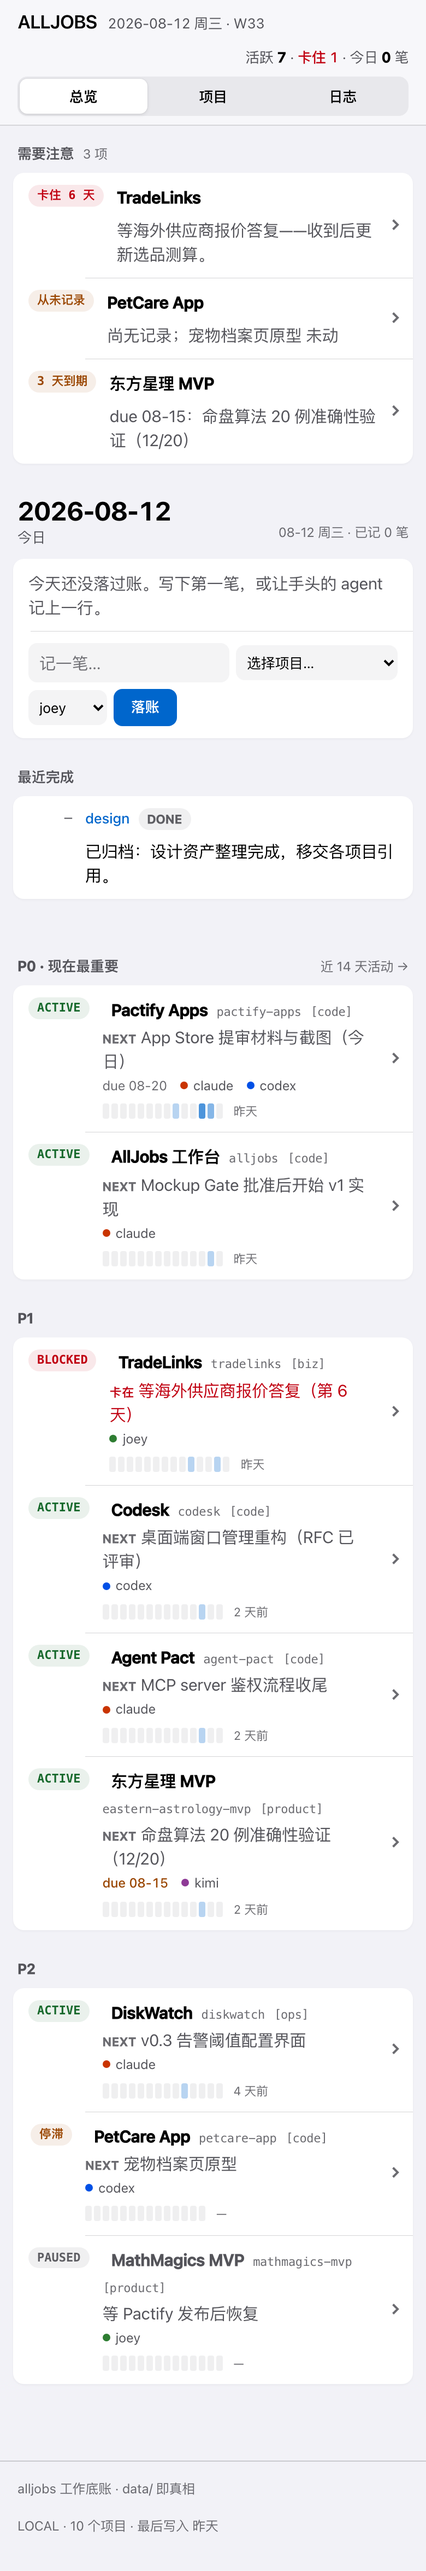
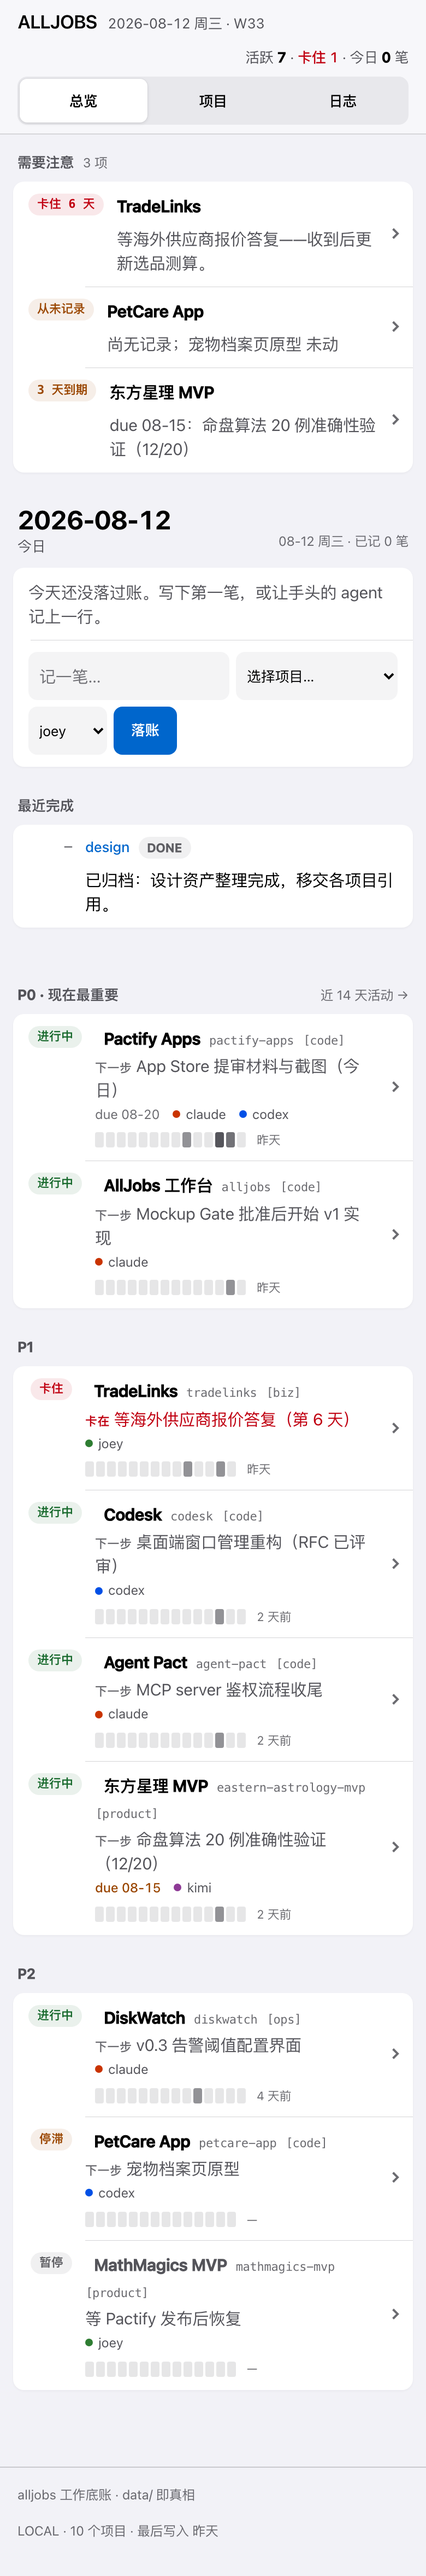
restyle: 修复独立 HIG 评审的 Critical/High 项
C1 焦点环（Critical）：color-mix 到 transparent 只降 alpha，实测 2.27–2.43:1，
  且 .quickadd input 的 outline:none 让焦点提示掉到 1.44:1（未分层规则恒压过 @layer base）。
  改 2px 实色强调环；CDP 真实 Tab 键实测明暗共 18 个焦点位 3.82–5.76:1 全部达标。
C2 选中 chip 计数文字 4.00/3.62 → 白字 alpha 0.92
C3 新增 prefers-contrast: more 档（此前只有明/暗两档，违反 color.md）
C4 活动强度图改中性石墨——强调蓝只保留「可点」一种含义
I1 深色 agent codex↔kimi 红绿色盲下完全重合（ΔE 0.6）→ 换色至 21.6；
   注释按实情重写，不再用「floor band」淡化
I2 活动梯 3 档不可见 → 浅色 1 档 2.24→3.11，条宽 6→8px
I3/I4 状态词汇统一为中文句首式（STATUS_LABEL 词典，胶囊与 chip 共用）；
   详情页去掉中英双写全大写眉标
I5 移动端控件 32–36px → 44pt；I7 深色补极淡描边找回卡面层次

评审同时指出我上一轮的对比度审计只覆盖静态文字、漏掉交互态与全部非文字对比度——
该批评成立，故把两个测量脚本固化进 scripts/（a11y-contrast.mjs / a11y-focus.mjs）。
lint 0 error · test 102/102 · 16 张截图重拍自最终 build。

diff --git a/app/globals.css b/app/globals.css
@@ -83,11 +83,12 @@
   --ag-joey: #2E7D32;
 
   /* —— 活动强度 sequential 单色梯（单色相，明度单调） —— */
-  --t0: rgba(120, 120, 128, 0.12);
-  --t1: rgba(0, 102, 204, 0.28);
-  --t2: rgba(0, 102, 204, 0.48);
-  --t3: rgba(0, 102, 204, 0.70);
-  --t4: #0066CC;
+  /* 活动强度：中性石墨梯——数据不可点，不能借用「可点=蓝」的强调色 */
+  --t0: rgba(60, 60, 67, 0.13);
+  --t1: rgba(60, 60, 67, 0.56);
+  --t2: rgba(60, 60, 67, 0.72);
+  --t3: rgba(60, 60, 67, 0.87);
+  --t4: rgba(60, 60, 67, 1);
 
   /* —— 玻璃（功能层） —— */
   --glass: rgba(249, 249, 251, 0.72);
@@ -146,22 +147,55 @@
     --tint-gray: rgba(152, 152, 157, 0.16);
     --tint-blue: rgba(10, 132, 255, 0.18);
 
-    /* 深色 agent 色标：平台原生亮度变体；identity 恒由色标 + 文字双编码承载
-       （严格 all-pairs CVD 下蓝/紫处 floor band——Apple 系统色本身亦然，见 DESIGN 记录） */
-    --ag-claude: #FF9F0A;
-    --ag-codex: #64A9FF;
-    --ag-kimi: #DA8FFF;
-    --ag-joey: #30DB5B;
+    /* 深色 agent 色标：色相拉开后 codex↔kimi 的红绿色盲重合已消除（ΔE 0.6 → 21.6 正常视力）。
+       残留最差配对 claude↔joey（橙/绿）deutan ΔE 6.7，处 6–8 floor band——合法前提是二次编码，
+       本项目每个色标后恒跟 agent 名文字（色标本身 aria-hidden），故 identity 从不由颜色单独承载。
+       深色档明度高于校验器的暗色带，是近黑底上可辨识度的取舍。 */
+    --ag-claude: #FFA726;
+    --ag-codex: #5CA8FF;
+    --ag-kimi: #FF6FB5;
+    --ag-joey: #3DDC6B;
 
-    --t0: rgba(118, 118, 128, 0.24);
-    --t1: rgba(10, 132, 255, 0.35);
-    --t2: rgba(10, 132, 255, 0.55);
-    --t3: rgba(10, 132, 255, 0.78);
-    --t4: #0A84FF;
+    --t0: rgba(235, 235, 245, 0.16);
+    --t1: rgba(235, 235, 245, 0.42);
+    --t2: rgba(235, 235, 245, 0.60);
+    --t3: rgba(235, 235, 245, 0.80);
+    --t4: rgba(235, 235, 245, 0.98);
 
     --glass: rgba(28, 28, 30, 0.72);
     --glass-border: rgba(84, 84, 88, 0.6);
-    --shadow-card: none;
+    /* 深色下卡面/分组底仅 1.23:1，用极淡描边补回可感知深度（dark-mode.md 分层目的） */
+    --shadow-card: 0 0 0 0.5px rgba(255, 255, 255, 0.07);
+  }
+}
+
+/* 系统「增强对比度」档（color.md 要求自定义色须同时提供 increased contrast 变体） */
+@media (prefers-contrast: more) {
+  :root {
+    --label-2: rgba(60, 60, 67, 0.96);
+    --label-3: rgba(60, 60, 67, 0.9);
+    --placeholder: rgba(60, 60, 67, 0.88);
+    --separator: rgba(60, 60, 67, 0.5);
+    --separator-opaque: #9E9EA4;
+    --t0: rgba(60, 60, 67, 0.22);
+    --t1: rgba(60, 60, 67, 0.55);
+    --shadow-card: 0 0 0 1px rgba(60, 60, 67, 0.28);
+  }
+  .masthead {
+    background: var(--bg-grouped-2);
+    backdrop-filter: none;
+    -webkit-backdrop-filter: none;
+  }
+}
+@media (prefers-contrast: more) and (prefers-color-scheme: dark) {
+  :root {
+    --label-2: rgba(235, 235, 245, 0.94);
+    --label-3: rgba(235, 235, 245, 0.84);
+    --placeholder: rgba(235, 235, 245, 0.8);
+    --separator: rgba(120, 120, 128, 0.9);
+    --t0: rgba(235, 235, 245, 0.26);
+    --t1: rgba(235, 235, 245, 0.55);
+    --shadow-card: 0 0 0 1px rgba(235, 235, 245, 0.24);
   }
 }
 
@@ -203,10 +237,11 @@
     color: inherit;
   }
 
+  /* 焦点环用实色：color-mix 到 transparent 只是降 alpha，实测仅 2.3:1，低于非文字 3:1 门槛。
+     不设 border-radius——那改的是元素自身圆角而非描边，组件分层后会让胶囊弹形。 */
   :focus-visible {
-    outline: 3px solid color-mix(in srgb, var(--accent-blue) 55%, transparent);
+    outline: 2px solid var(--accent-blue);
     outline-offset: 2px;
-    border-radius: 6px;
   }
 
   h1,
@@ -590,7 +625,7 @@
   align-items: center;
 }
 .tally i {
-  width: 6px;
+  width: 8px;
   height: 14px;
   border-radius: 2px;
   background: var(--t0);
@@ -676,9 +711,12 @@
 .quickadd input[type="text"]::placeholder {
   color: var(--placeholder);
 }
+.quickadd input[type="text"]:focus-visible {
+  outline: 2px solid var(--accent-blue);
+  outline-offset: 2px;
+}
 .quickadd input[type="text"]:focus {
-  outline: none;
-  box-shadow: 0 0 0 3px color-mix(in srgb, var(--accent-blue) 30%, transparent);
+  box-shadow: 0 0 0 3px color-mix(in srgb, var(--accent-blue) 22%, transparent);
 }
 .quickadd input[type="text"][aria-invalid="true"] {
   box-shadow: 0 0 0 2px var(--sys-red);
@@ -929,7 +967,7 @@ a.row:hover,
 }
 .chip[aria-pressed="true"] .n,
 .chip[aria-current="true"] .n {
-  color: rgba(255, 255, 255, 0.78);
+  color: rgba(255, 255, 255, 0.92);
 }
 .chip .n {
   color: var(--label-3);
@@ -1241,7 +1279,7 @@ a.row:hover,
   .tab {
     flex: 1;
     text-align: center;
-    min-height: 32px;
+    min-height: 40px;
     display: flex;
     align-items: center;
     justify-content: center;
@@ -1282,9 +1320,18 @@ a.row:hover,
   .quickadd .body {
     gap: 6px;
   }
+  /* 移动端控件回到平台默认 44pt（accessibility.md > Mobility） */
   .btn-stamp,
-  .chip {
-    min-height: 34px;
+  .chip,
+  .quickadd input[type="text"],
+  .quickadd select {
+    min-height: 44px;
+  }
+  .tab {
+    min-height: 40px;
+  }
+  .filters {
+    gap: 10px;
   }
   .footer {
     padding: 16px 16px 32px;

diff --git a/app/views.test.tsx b/app/views.test.tsx
@@ -141,7 +141,7 @@ describe("总览 /", () => {
   test("右页：P0→P2 分组、NEXT、tally、last；done 进最近完成且不进右页", () => {
     const html = renderToStaticMarkup(<OverviewView data={seedLedger()} now={NOW} />);
     expect(html).toContain("P0 · 现在最重要");
-    expect(html).toContain("NEXT");
+    expect(html).toContain("下一步");
     expect(html).toContain("App Store 提审材料与截图");
     expect(html.indexOf("P0 · 现在最重要")).toBeLessThan(html.indexOf(">P2<"));
     expect(html).toContain("近 14 天活动 →");
@@ -237,8 +237,8 @@ describe("项目详情 /projects/[slug]", () => {
     expect(html).toContain("Pactify Apps");
     expect(html).toContain("started");
     expect(html).toContain("2026-08-20");
-    expect(html).toContain("当前 NOW");
-    expect(html).toContain("下一步 NEXT");
+    expect(html).toContain("当前");
+    expect(html).toContain("下一步");
     expect(html).toContain("App Store 提审材料与截图");
     // 活动流：今日在上，日内倒序
     const actStart = html.indexOf("活动");
@@ -250,7 +250,7 @@ describe("项目详情 /projects/[slug]", () => {
     expect(html).toContain("blockbar");
     expect(html).toContain("卡住 5 天");
     expect(html).toContain("等海外供应商报价答复");
-    expect(html).toContain("BLOCKED");
+    expect(html).toContain("卡住");
   });
 
   test("缺 Now：占位提示", () => {
@@ -296,7 +296,7 @@ describe("项目详情 /projects/[slug]", () => {
 
   test("done：整页减淡 + DONE 戳", () => {
     const html = renderToStaticMarkup(<DetailView data={seedLedger()} slug="design" now={NOW} />);
-    expect(html).toContain("DONE");
+    expect(html).toContain("已完成");
     expect(html).toContain("is-done");
   });
 

diff --git a/components/ledger/lib.ts b/components/ledger/lib.ts
@@ -69,13 +69,22 @@ function firstSentence(s: string): string {
   return m?.[0] || s;
 }
 
+/** 状态词典：胶囊与过滤 chip 共用一份，避免同屏出现英文全大写/中文/小写英文三种写法 */
+export const STATUS_LABEL: Record<string, string> = {
+  active: "进行中",
+  blocked: "卡住",
+  paused: "暂停",
+  done: "已完成",
+  stale: "停滞",
+};
+
 /** 底账行边距戳：blocked 优先于停滞（与注意清单同序），其余直取状态 */
 export function rowStamp(p: DerivedProject): StampSpec {
-  if (p.status === "blocked") return { cls: "blocked", text: "BLOCKED" };
-  if (p.stale) return { cls: "stale", text: "停滞" };
-  if (p.status === "active") return { cls: "active", text: "ACTIVE" };
-  if (p.status === "paused") return { cls: "paused", text: "PAUSED" };
-  return { cls: "done", text: "DONE" };
+  if (p.status === "blocked") return { cls: "blocked", text: STATUS_LABEL.blocked };
+  if (p.stale) return { cls: "stale", text: STATUS_LABEL.stale };
+  if (p.status === "active") return { cls: "active", text: STATUS_LABEL.active };
+  if (p.status === "paused") return { cls: "paused", text: STATUS_LABEL.paused };
+  return { cls: "done", text: STATUS_LABEL.done };
 }
 
 export interface ProjectFilters {

diff --git a/components/ledger/ledger.test.tsx b/components/ledger/ledger.test.tsx
@@ -143,7 +143,7 @@ describe("lib · 戳文案与原因", () => {
       [],
       TODAY,
     );
-    expect(rowStamp(blocked!)).toEqual({ cls: "blocked", text: "BLOCKED" });
+    expect(rowStamp(blocked!)).toEqual({ cls: "blocked", text: "卡住" });
 
     const [stale] = deriveProjects([makeProject({ slug: "b" })], [], TODAY);
     expect(rowStamp(stale!)).toEqual({ cls: "stale", text: "停滞" });
@@ -153,17 +153,17 @@ describe("lib · 戳文案与原因", () => {
       [makeEntry({ slug: "c" })],
       TODAY,
     );
-    expect(rowStamp(active!)).toEqual({ cls: "active", text: "ACTIVE" });
+    expect(rowStamp(active!)).toEqual({ cls: "active", text: "进行中" });
 
     const [paused] = deriveProjects(
       [makeProject({ slug: "d", status: "paused" })],
       [],
       TODAY,
     );
-    expect(rowStamp(paused!)).toEqual({ cls: "paused", text: "PAUSED" });
+    expect(rowStamp(paused!)).toEqual({ cls: "paused", text: "暂停" });
 
     const [done] = deriveProjects([makeProject({ slug: "e", status: "done" })], [], TODAY);
-    expect(rowStamp(done!)).toEqual({ cls: "done", text: "DONE" });
+    expect(rowStamp(done!)).toEqual({ cls: "done", text: "已完成" });
   });
 });
 

diff --git a/app/projects/[slug]/detail-view.tsx b/app/projects/[slug]/detail-view.tsx
@@ -132,7 +132,7 @@ export function DetailView({
 
         <div className="spread spread--detail">
           <section className="page" aria-label="当前与下一步">
-            <SectionHead title="当前 NOW" />
+            <SectionHead title="当前" />
             {project.now ? (
               <div className="prose prose--section">
                 <p>{project.now}</p>
@@ -141,7 +141,7 @@ export function DetailView({
               <MissingSection section="## Now" margin="NOW" />
             )}
 
-            <SectionHead title="下一步 NEXT" count={project.next.length > 0 ? `${project.next.length} 项` : undefined} />
+            <SectionHead title="下一步" count={project.next.length > 0 ? `${project.next.length} 项` : undefined} />
             {project.next.length > 0 ? (
               <div className="prose">
                 <ul>
@@ -159,7 +159,7 @@ export function DetailView({
 
             {project.notes && (
               <>
-                <SectionHead title="笔记 NOTES" />
+                <SectionHead title="笔记" />
                 <div className="prose prose--section">
                   <p>{project.notes}</p>
                 </div>

diff --git a/app/projects/projects-view.tsx b/app/projects/projects-view.tsx
@@ -6,6 +6,7 @@ import { Masthead } from "../../components/ledger/masthead";
 import {
   filterProjects,
   sortForIndex,
+  STATUS_LABEL,
   toggleHref,
   type ProjectFilters,
 } from "../../components/ledger/lib";
@@ -70,7 +71,7 @@ export function ProjectsView({
               href={toggleHref("/projects", current, "status", s)}
               aria-current={filters.status === s ? "true" : undefined}
             >
-              {s}
+              {STATUS_LABEL[s] ?? s}
               <span className="n">{derived.filter((p) => p.status === s).length}</span>
             </Link>
           ))}
@@ -132,7 +133,7 @@ export function ProjectsView({
       <Footer
         left="alljobs 工作底账 · data/projects/*.md"
         right={`${derived.length} 个项目 · ${STATUSES.map(
-          (s) => `${derived.filter((p) => p.status === s).length} ${s}`,
+          (s) => `${derived.filter((p) => p.status === s).length} ${STATUS_LABEL[s] ?? s}`,
         ).join(" · ")}`}
       />
     </>

diff --git a/components/ledger/primitives/project-row.tsx b/components/ledger/primitives/project-row.tsx
@@ -50,7 +50,7 @@ export function ProjectRow({
           </span>
         ) : (
           <span className="next">
-            {!quiet && nextText && <b>NEXT</b>} {nextText ?? "—"}
+            {!quiet && nextText && <b>下一步</b>} {nextText ?? "—"}
           </span>
         )}
         <span className="meta">

diff --git a/.agent/frontend-design/alljobs-restyle-apple/brief.md b/.agent/frontend-design/alljobs-restyle-apple/brief.md
@@ -75,6 +75,27 @@ Human checkpoints: 设计方向（已由本次指令 pin 定）→ 本 Gate（re
 - 每页 h1 唯一；键盘焦点环为 3px 强调色（`:focus-visible`）
 - 16 张最终 build 截图（四路由 × 桌面/移动 × 明/暗）存 `screens/`
 
+## 独立评审（apple-design skill · 新会话子代理）与处置
+
+**总评：Good**；未出现 rebuild 级发现。评审者独立复算了对比度、CVD 模拟、像素合成值，并对我的四项主张逐条裁定——
+其中**主张①「37 项对比度全过」被判定为部分不实**：我的审计只覆盖静态文字对，**漏掉交互态与全部非文字对比度**。这条批评成立。
+
+| 编号 | 严重度 | 发现 | 处置 |
+|---|---|---|---|
+| C1 | **Critical** | 焦点环用 `color-mix(…55%, transparent)` 实测仅 2.27–2.43:1（需 3:1）；快速添加输入框 `outline: none` 让焦点提示掉到 1.44:1，且未分层的组件规则恒压过 `@layer base` | 焦点环改 2px 实色强调色、删除误导性的 `border-radius`、输入框不再 `outline:none`（柔光降为辅助）。**CDP 真实 Tab 键实测**：明/暗各 9 个焦点位，3.82–5.76:1 全部达标 |
+| C2 | High | 选中态 chip 的计数文字 4.00/3.62:1 | 白字 alpha 0.78 → 0.92 |
+| C3 | High | 有明/暗两档但缺 `prefers-contrast: more` 档 | 新增增强对比度档（label/分隔线/tally 加深、卡片实描边、顶栏去玻璃） |
+| C4 | High | 强调蓝被 14 日活动图借用——数据不可点却与「可点=蓝」同色，自我违背方向契约 | 活动梯改中性石墨；蓝色只保留「可点」一种含义 |
+| I1 | Medium | 深色 agent 色标 codex↔kimi 在红绿色盲下 ΔE 0.6–2.1（**完全重合**，我此前措辞「floor band」失真） | 重选深色组：codex↔kimi 正常视力 ΔE 21.6；最差配对变为 claude↔joey（橙/绿）deutan 6.7，处合法 floor band。**CSS 注释按实情重写**，不再淡化 |
+| I2 | Medium | 活动图 5 档里 3 档不可见（1.15–2.24:1） | 梯度抬升：浅色 1 档 2.24 → **3.11**、2 档 4.74、3 档 7.36；条宽 6 → 8px |
+| I3/I4 | Medium | 同屏三种状态写法（`ACTIVE` / `停滞` / `active`）；详情页中英双写全大写眉标 | 抽出 `STATUS_LABEL` 词典统一为中文句首式（进行中/卡住/暂停/已完成/停滞），胶囊与 chip 共用；详情标题去掉冗余英文 |
+| I5 | Medium | 移动端控件 32–36px，低于平台默认 44pt | 移动断点内按钮/chip/输入/下拉 ≥44px，tab 40px，chip 间距 10px |
+| I7 | Medium | 深色卡面与纯黑分组底仅 1.23:1 且取消了阴影 | 深色补 0.5px 极淡描边作为备用深度线索 |
+| I6 / I8 / I9 / I10 / I11 | Low–Medium | 多维筛选器缺分组语义、玻璃缺 scroll edge effect、桌面端 NEXT 单行截断、灰色一色多义、safe-area/行长等 | **未做，留作后续**（不阻塞：均非可达性门禁，且部分需改结构而非样式） |
+
+评审复核后的实测（最终 build）：文字对比度 37 项 **0 不达标**（明/暗 × 桌面/移动）；焦点环 18 个位点全部 ≥3:1 实线；
+`lint` 0 error · `test` 102/102 · 四路由 390px 无横向滚动。
+
 ## 待 Human Owner 决定
 
 1. 采用 Apple 版并合并 `restyle/apple-hig` → main（合并后需重跑独立 Verification）
